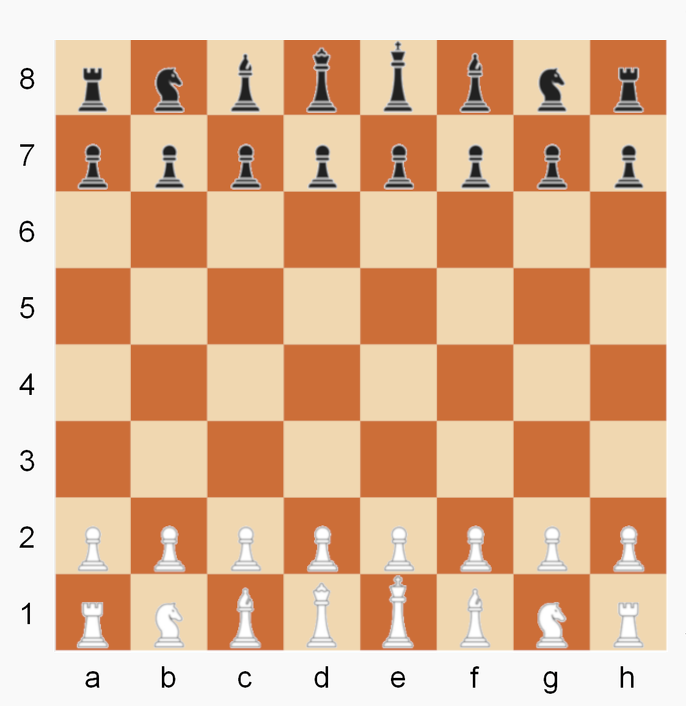
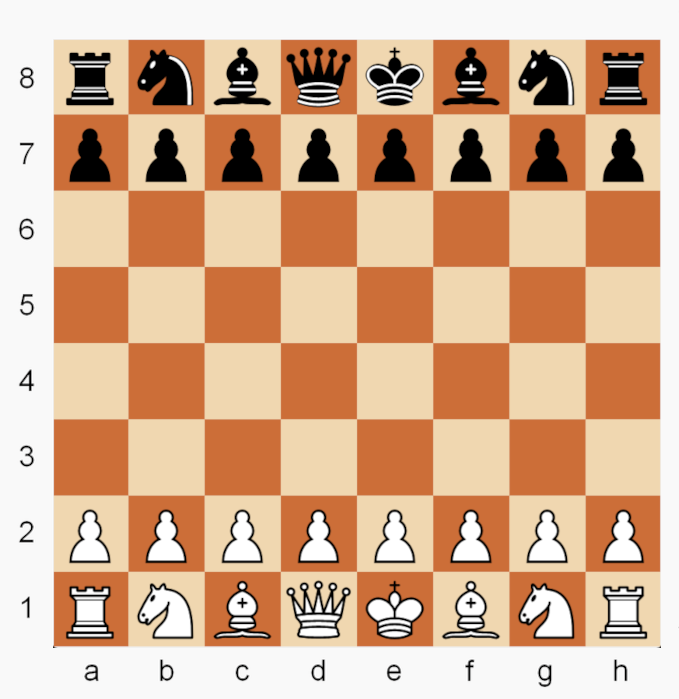
updated images and readme

diff --git a/ChessGUI.py b/ChessGUI.py
@@ -29,7 +29,7 @@ class ChessGUI:
 
         # Window title and icon
         self._window.title("Chess: Fog of War")
-        icon = PhotoImage(file='assets/black_pieces/b_q.png')
+        icon = tksvg.SvgImage(file='assets/black_pieces/b_r.svg', scale=1.0)
         self._window.iconphoto(True, icon)
 
         # Pause variables

diff --git a/README.md b/README.md
@@ -19,9 +19,9 @@ The game ends when a player's king is captured by the opposing player.
 
 * Install [Python](https://www.python.org/downloads/)
 * Add Python to <code>Path</code>
-* Run one of the following files:
-    * ChessGUI.py (recommended)
-    * ChessGame.py
+* Run one of the following commands in shell:
+    * `python ChessGUI.py` (recommended)
+    * `python ChessGame.py`
 
 ## How To Play ChessGUI
 
